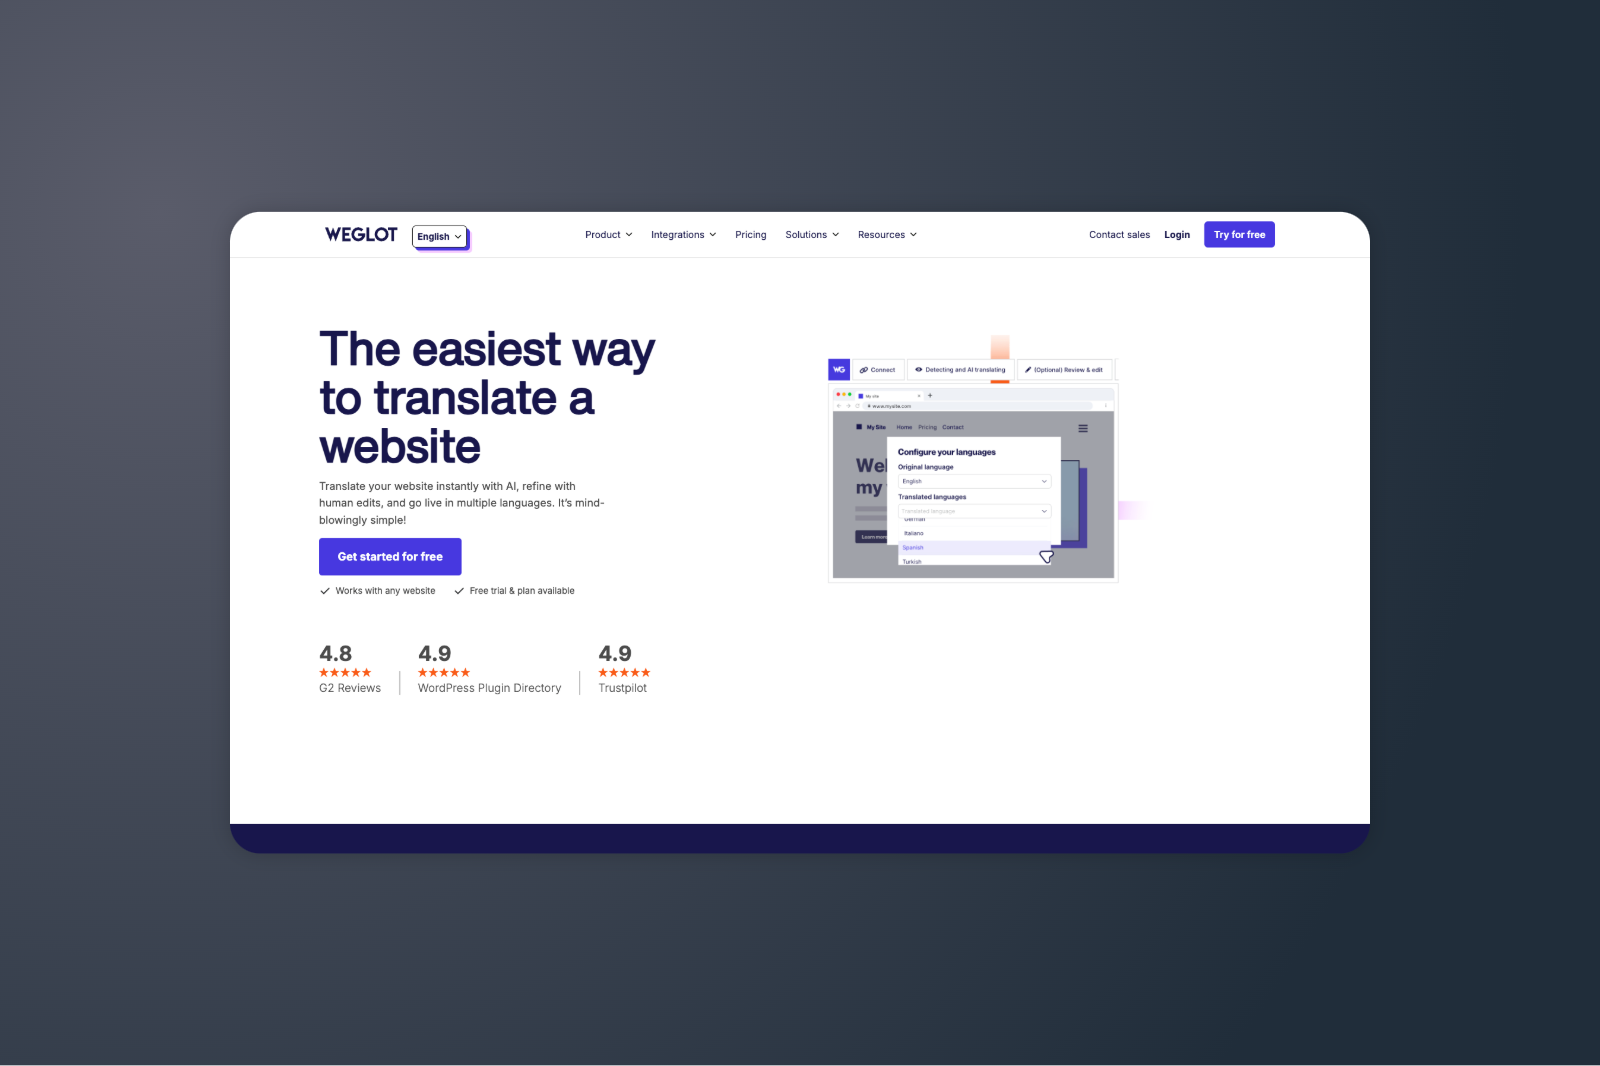
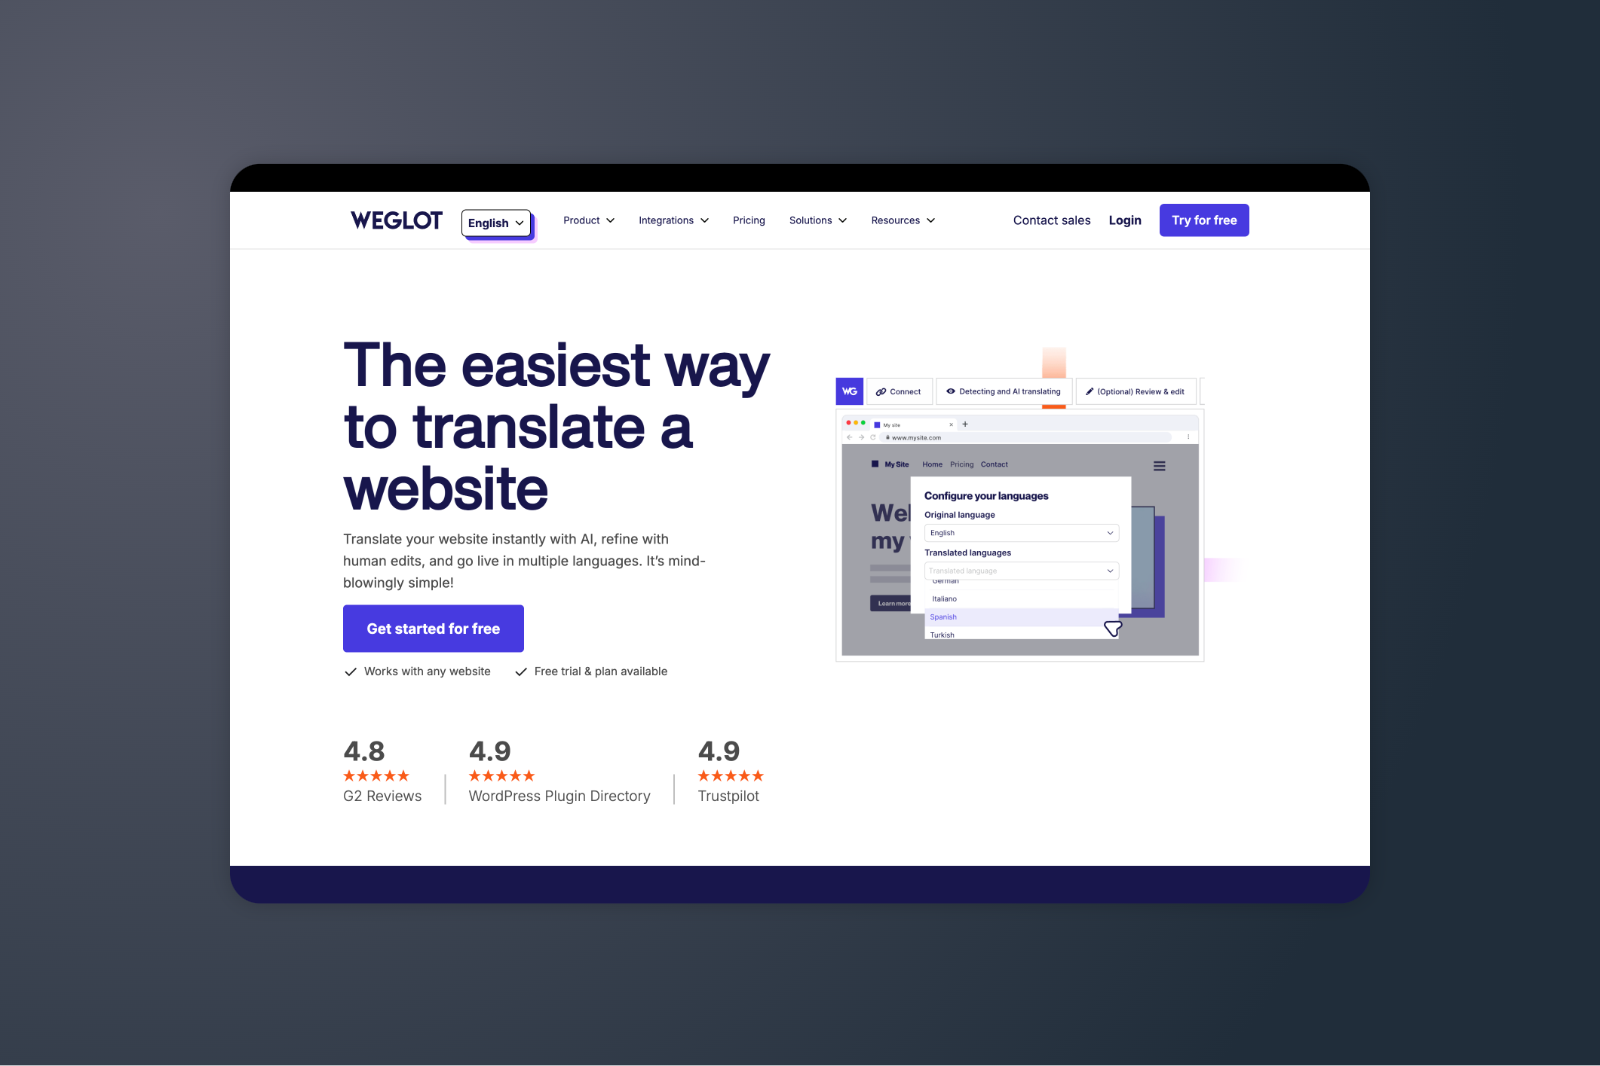
docs: updated readme

Changed region(s): [[0.1875, 0.3096, 0.7812, 0.6501], [0.125, 0.6811, 0.875, 0.8668], [0.125, 0.1548, 0.875, 0.2477]]

diff --git a/_navigation.scss b/_navigation.scss
@@ -37,14 +37,14 @@
         display: flex;
         gap: 2rem;
         align-items: center;
-        margin-left:-90px;
+        margin-left:-60px;
 
         div {
             display: flex;
             align-items: center;
             gap: 0.5rem;
             cursor: pointer;
-            font-size: 16px;
+            font-size: 13px;
 
             .arrow {
                 width: 12px;

diff --git a/style.css b/style.css
@@ -43,14 +43,14 @@
   display: flex;
   gap: 2rem;
   align-items: center;
-  margin-left: -90px;
+  margin-left: -60px;
 }
 .nav .navigation div {
   display: flex;
   align-items: center;
   gap: 0.5rem;
   cursor: pointer;
-  font-size: 16px;
+  font-size: 13px;
 }
 .nav .navigation div .arrow {
   width: 12px;
